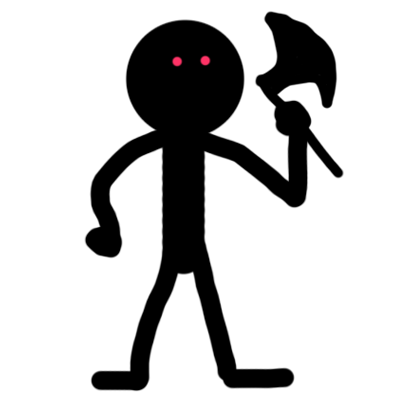
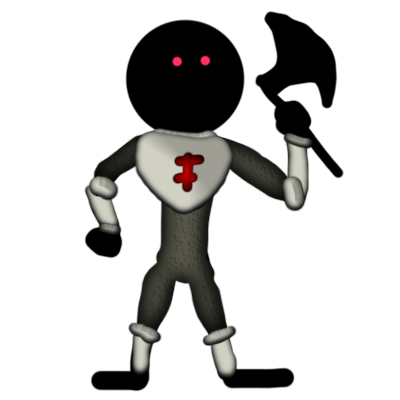
update unit graphics

Changed region(s): [[0.21, 0.3, 0.78, 0.96]]

diff --git a/3_enviroment.js b/3_enviroment.js
@@ -23,9 +23,12 @@ var enviroment = {
         });
     },
 
-    update: function(ctx) {        this.collection.forEach((x, i, arr) => {
-        x.update(arr)
-    });
+    update: function(ctx) {
+        
+        this.collection.forEach((x, i, arr) => {
+            x.update(arr)
+        });
+
         ctx.drawImage(bg.src, bg.x, bg.y, bg.w, bg.h);
         ctx.drawImage(gold_icon.src, gold_icon.x, gold_icon.y, gold_icon.w, gold_icon.h);
         ctx.drawImage(tower_icon.src, tower_icon.x, tower_icon.y, tower_icon.w, tower_icon.h);

diff --git a/index.js b/index.js
@@ -22,8 +22,8 @@
                 y: ( 600),
                 size: 40,
                 speed: 20,
-                id: "knight",
-                src: "knight",
+                id: "mage",
+                src: "mage",
                 hp: 10,
                 group: "hoard",
                 drag: false

diff --git a/6_renderer.js b/6_renderer.js
@@ -31,7 +31,6 @@
                 };
         })();
 
-
         function loop() {
             clear();
             update();
